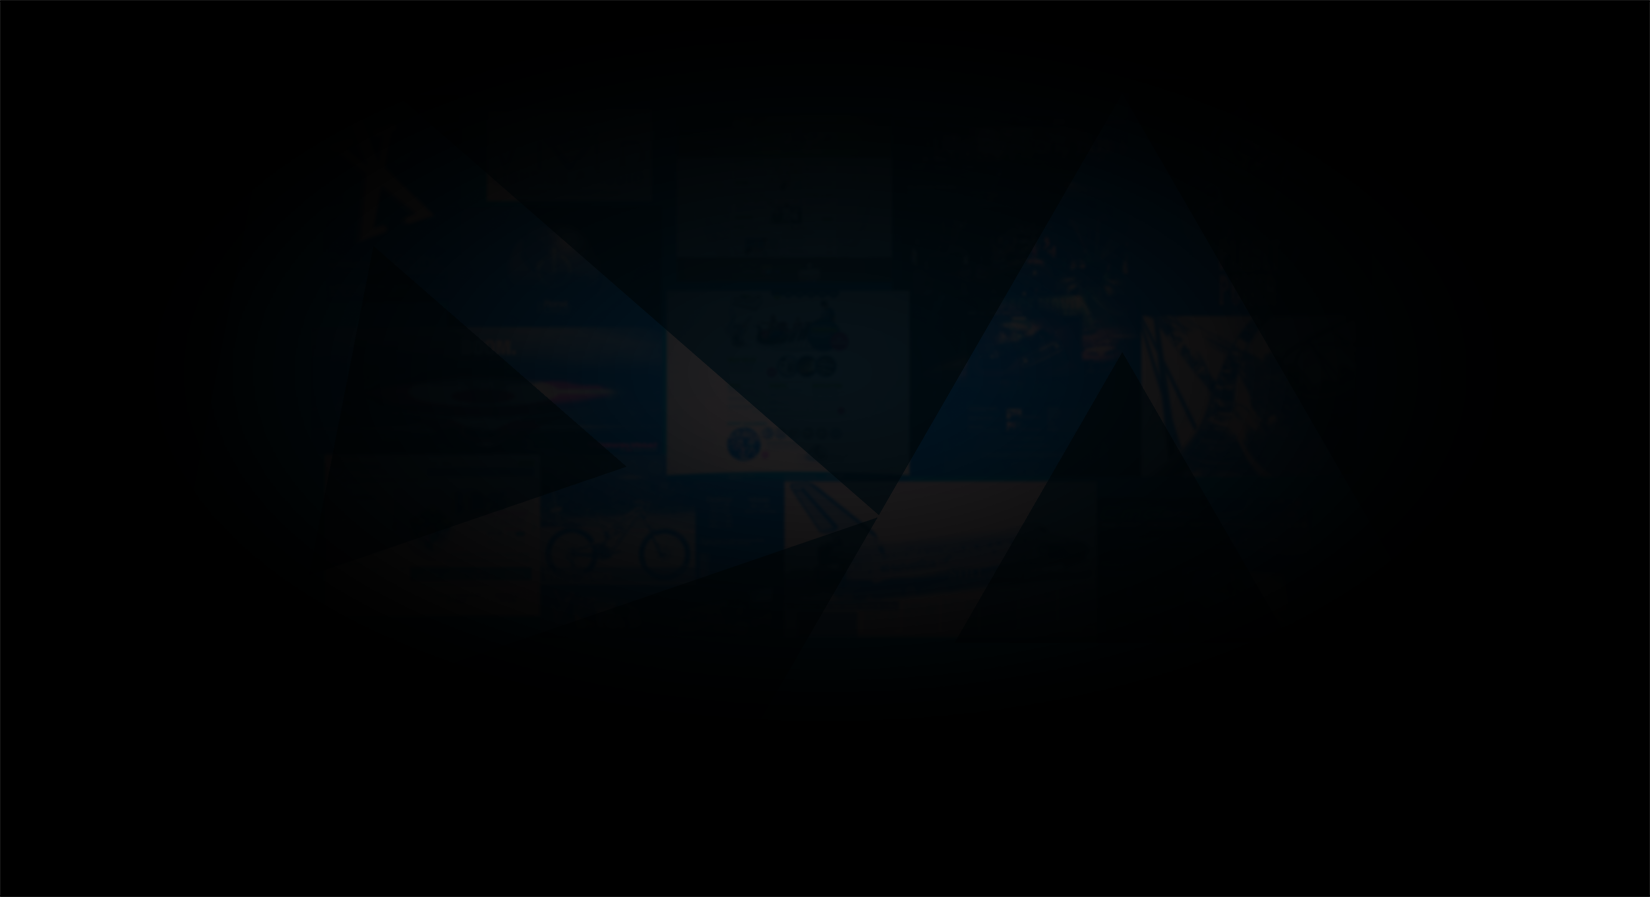
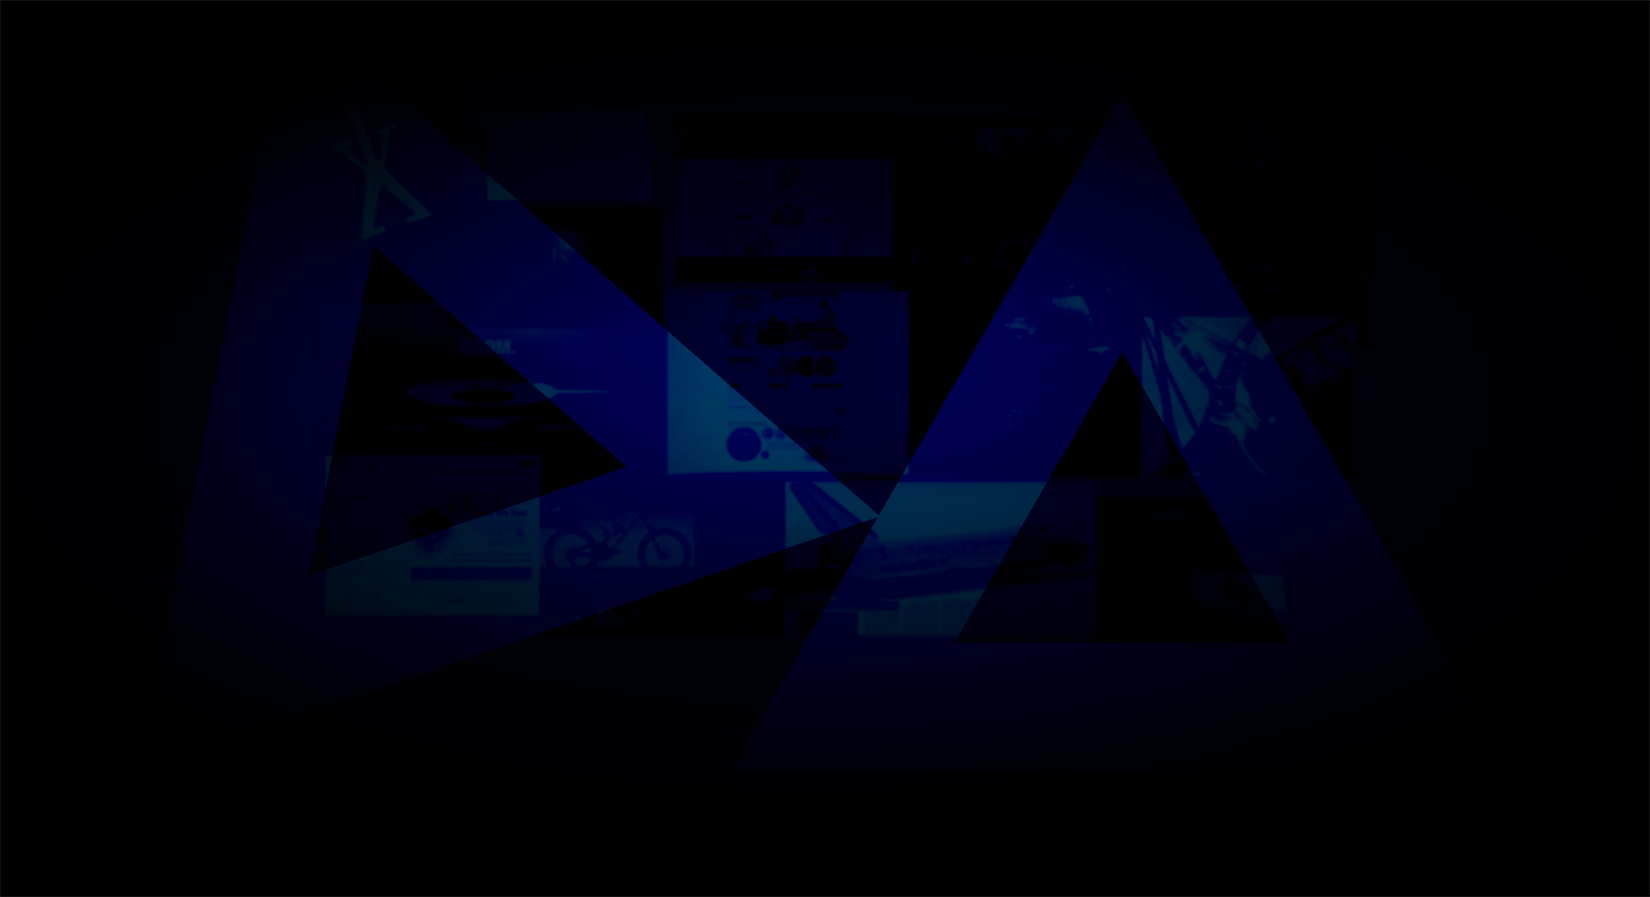
Visual refinements
Eased more CSS properties into the application.

Changed region(s): [[0.1236, 0.1873, 0.8345, 0.7804]]

diff --git a/app/assets/stylesheets/foundation_and_overrides.scss b/app/assets/stylesheets/foundation_and_overrides.scss
@@ -818,7 +818,7 @@ $tabbar-hamburger-icon-gap: 6px;
 $include-html-panel-classes: $include-html-classes;
 
 // We use these to control the background and border styles
-$panel-bg: rgba(0,114,188,.1);
+$panel-bg: rgba(77, 0, 188, 0.1);
 $panel-border-style: solid;
 $panel-border-size: 1px;
 
@@ -1016,33 +1016,33 @@ $callout-panel-link-color: $primary-color;
 
 // Sub Nav
 
-// $include-html-nav-classes: $include-html-classes;
+$include-html-nav-classes: $include-html-classes;
 
 // We use these to control margin and padding
-// $sub-nav-list-margin: rem-calc(-4 0 18);
-// $sub-nav-list-padding-top: rem-calc(4);
+$sub-nav-list-margin: rem-calc(-4 0 18);
+$sub-nav-list-padding-top: rem-calc(4);
 
 // We use this to control the definition
-// $sub-nav-font-family: $body-font-family;
-// $sub-nav-font-size: rem-calc(14);
-// $sub-nav-font-color: #999;
-// $sub-nav-font-weight: $font-weight-normal;
-// $sub-nav-text-decoration: none;
-// $sub-nav-padding: rem-calc(3 16);
-// $sub-nav-border-radius: 3px;
-// $sub-nav-font-color-hover: scale-color($sub-nav-font-color, $lightness: -25%);
+$sub-nav-font-family: $body-font-family;
+$sub-nav-font-size: rem-calc(14);
+$sub-nav-font-color: #999;
+$sub-nav-font-weight: $font-weight-normal;
+$sub-nav-text-decoration: none;
+$sub-nav-padding: rem-calc(3 16);
+$sub-nav-border-radius: 3px;
+$sub-nav-font-color-hover: scale-color($sub-nav-font-color, $lightness: -25%);
 
 
 // We use these to control the active item styles
-// $sub-nav-active-font-weight: $font-weight-normal;
-// $sub-nav-active-bg: $primary-color;
-// $sub-nav-active-bg-hover: scale-color($sub-nav-active-bg, $lightness: -14%);
-// $sub-nav-active-color: #fff;
-// $sub-nav-active-padding: $sub-nav-padding;
-// $sub-nav-active-cursor: default;
+$sub-nav-active-font-weight: $font-weight-normal;
+$sub-nav-active-bg: $primary-color;
+$sub-nav-active-bg-hover: scale-color($sub-nav-active-bg, $lightness: -14%);
+$sub-nav-active-color: #fff;
+$sub-nav-active-padding: $sub-nav-padding;
+$sub-nav-active-cursor: default;
 
-// $sub-nav-item-divider: "";
-// $sub-nav-item-divider-margin: rem-calc(12);
+$sub-nav-item-divider: "";
+$sub-nav-item-divider-margin: rem-calc(12);
 
 //
 // SWITCH
@@ -1118,21 +1118,21 @@ $callout-panel-link-color: $primary-color;
 // TABS
 //
 
-// $include-html-tabs-classes: $include-html-classes;
+$include-html-tabs-classes: $include-html-classes;
 
-// $tabs-navigation-padding: rem-calc(16);
-// $tabs-navigation-bg-color: #efefef  ;
-// $tabs-navigation-active-bg-color: #fff;
-// $tabs-navigation-hover-bg-color: scale-color($tabs-navigation-bg-color, $lightness: -6%);
-// $tabs-navigation-font-color: #222;
-// $tabs-navigation-active-font-color: $tabs-navigation-font-color;
-// $tabs-navigation-font-size: rem-calc(16);
-// $tabs-navigation-font-family: $body-font-family;
+$tabs-navigation-padding: rem-calc(16);
+$tabs-navigation-bg-color: #efefef  ;
+$tabs-navigation-active-bg-color: #fff;
+$tabs-navigation-hover-bg-color: scale-color($tabs-navigation-bg-color, $lightness: -6%);
+$tabs-navigation-font-color: #222;
+$tabs-navigation-active-font-color: $tabs-navigation-font-color;
+$tabs-navigation-font-size: rem-calc(16);
+$tabs-navigation-font-family: $body-font-family;
 
-// $tabs-content-margin-bottom: rem-calc(24);
-// $tabs-content-padding: $column-gutter/2;
+$tabs-content-margin-bottom: rem-calc(24);
+$tabs-content-padding: $column-gutter/2;
 
-// $tabs-vertical-navigation-margin-bottom: 1.25rem;
+$tabs-vertical-navigation-margin-bottom: 1.25rem;
 
 //
 // THUMBNAILS
@@ -1170,7 +1170,7 @@ $callout-panel-link-color: $primary-color;
 // $tooltip-font-weight: $font-weight-normal;
 // $tooltip-font-color: #fff;
 // $tooltip-line-height: 1.3;
-// $tooltip-close-font-size: rem-calc(10);
+// $tooltip-close-font-size: rem-calc(10); 
 // $tooltip-close-font-weight: $font-weight-normal;
 // $tooltip-close-font-color: #777;
 // $tooltip-font-size-sml: rem-calc(14);
